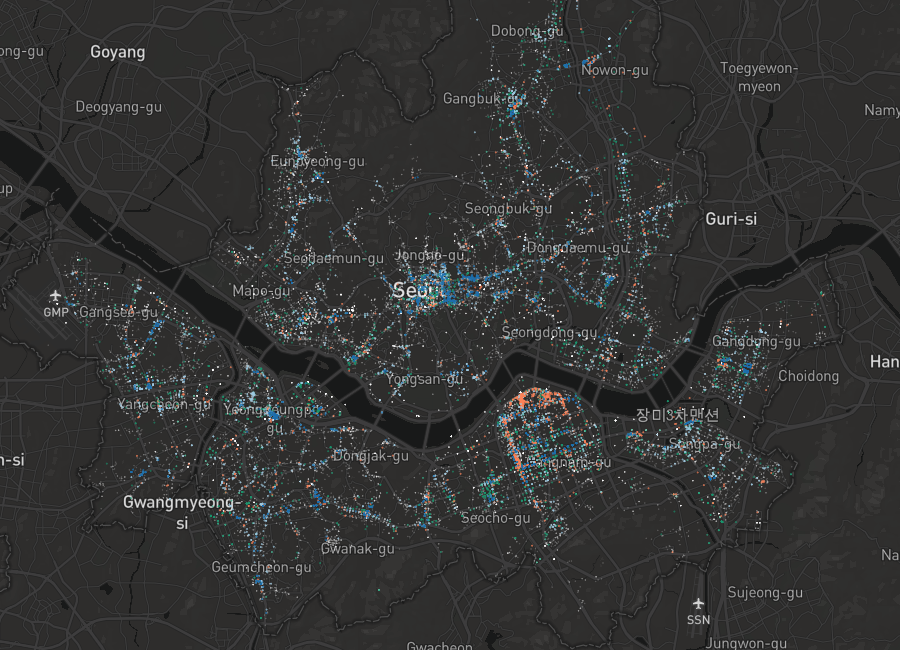
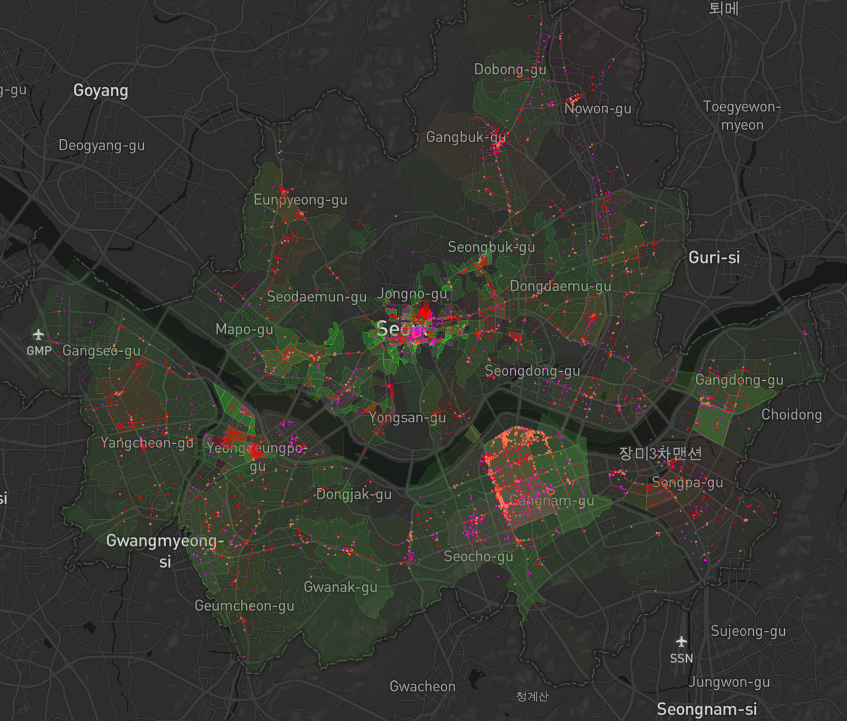
added map

diff --git a/_projects/sex-industry-map.md b/_projects/sex-industry-map.md
@@ -8,12 +8,14 @@ tags: [work in progress, data visualization]
 index: 11
 ---
 
-[![image]({{ site.baseurl }}/{{ page.img }})](https://rawgit.com/achimkoh/seoul-sex-industry-map/master/index.html)
+[![image]({{ site.baseurl }}/{{ page.img }})]({{ site.baseurl }}/assets/seoul-sex-industry-map/)
 
-[Working demo](https://rawgit.com/achimkoh/seoul-sex-industry-map/master/index.html)  
-<small>*Careful mobile network users: the map will load ~13MB of GeoJSON data</small>
+[Interactive Map]({{ site.baseurl }}/assets/seoul-sex-industry-map/)  
+<small>*Careful mobile network users: will load ~11MB</small>
 
-I've read a Korean [article](http://www.ildaro.com/sub_read.html?uid=7687) that pointed out the geographical proximities of hostess bars and predatory lending companies (they are mostly concentrated in Gangnam and Seocho). Another article in the series points to a vicious cycle including the two types of businesses and a third one, plastic surgery clinics; hostess workers becoming increasingly more vulnerable and controlled by hostess bars due to the pressure of plastic surgery and the availability of high-interest lending. 
+Plastic surgery clinics, high-interest predatory lending services and hostess bars conspiring to take advantage of female hostesses is a de facto problem in Seoul. The year 2017 saw legal enforcement leading to [a massive bust](http://hankookilbo.com/m/v/305ed59690c74876a9ea1987100cb05e) of dozens of conspirators; however, mainstream media reports about such a predatory practice date at least as back as [2011](http://h21.hani.co.kr/arti/cover/cover_general/30836.html).
+
+A Korean [article](http://www.ildaro.com/sub_read.html?uid=7687) points out the geographical proximities of hostess bars and high-interest lending companies (they are mostly concentrated in Gangnam and Seocho). Another article in the series points to a vicious cycle including the two types of businesses and a third one, plastic surgery clinics; hostess workers becoming increasingly more vulnerable and controlled by hostess bars due to the pressure of plastic surgery and the availability of high-interest lending. See also (in Korean): [link](https://e-loom.org/tag/%EB%8C%80%EC%B6%94-%EB%8C%80%EC%B6%9C%EC%9D%80-%EC%B6%94%EC%8B%AC/)
 
 Using this map I want to visualize this relationship. One key question is: are the geographical correlation due to these areas being busy districts in general, or do these specific types of businesses really stand out?
 
@@ -22,9 +24,15 @@ I first scraped Seoul's business registries from these data sources:
 - [https://open.seoul.go.kr](https://open.seoul.go.kr)
 - [http://data.go.kr](http://data.go.kr) 건강보험심사평가원 병원정보서비스 (Medical clinic information) API
 
-Then I plotted businesses that are currently active using Mapbox.
+Then I converted addresses to coordinates using the Naver API and selected businesses that are currently active, plotting them using Mapbox. The map has layers for lending services (대부업체), plastic surgery clinics (성형외과), hostess bars (단란주점, 유흥업소), coffee shops, convenience stores, and fast food restaurants; the last three being proxies for an area's overall commercial activity. 
 
-Currently the map has layers for lending services (대부업체), plastic surgery clinics (성형외과), hostess bars (단란주점, 유흥업소), and restaurants and coffee shops (휴게음식점); the last one being a proxy for an area's overall commercial activity. Further work can add more proxy data and better demonstrate the relationship between layers.
+Then I imported municipality border data from [Lucy Park's Github repo](https://github.com/southkorea/seoul-maps) (after much frustration over painfully restrictive access to public datasets, mainly due to the fact that I live abroad and am unable to use SMS authentication through a Korean carrier), and used d3 and turf.js to calculate the density of each business type per area. The density is used to determine each municipality polygon's color opacity.
+
+The map shows that the three business types mentioned as constituting the vicious cycle are much more concentrated than businesses like convenience stores, especially in areas like Gangnam, Jongro and Yeongdeungpo. This map is intended to visually support the aforementioned media reports and related studies.
+
+![image]({{ site.baseurl }}/assets/img/portfolio/seoul-gangnam.png)
+
+![image]({{ site.baseurl }}/assets/img/portfolio/seoul-yeongdeungpo.png)
 
 유흥업소와 대부업체의 연관성을 지적한 [일다로 기사](http://www.ildaro.com/sub_read.html?uid=7687)를 읽고, 해당 내용을 지도로 시각화해보려고 함. "서울에만 3천9백여 개의 대부업체 영업점이 있는데 그 중 강남, 서초에만 1천2백 개 정도가 있어요. 지도에 점을 찍어보니 유흥업소 분포랑 비슷하더라고요. 대부업체와 유흥업소가 이렇게 같은 곳에 몰려있는 이유가 뭘까요?" 시리즈 다른 기사에서는 성형업체도 언급된다.
 
